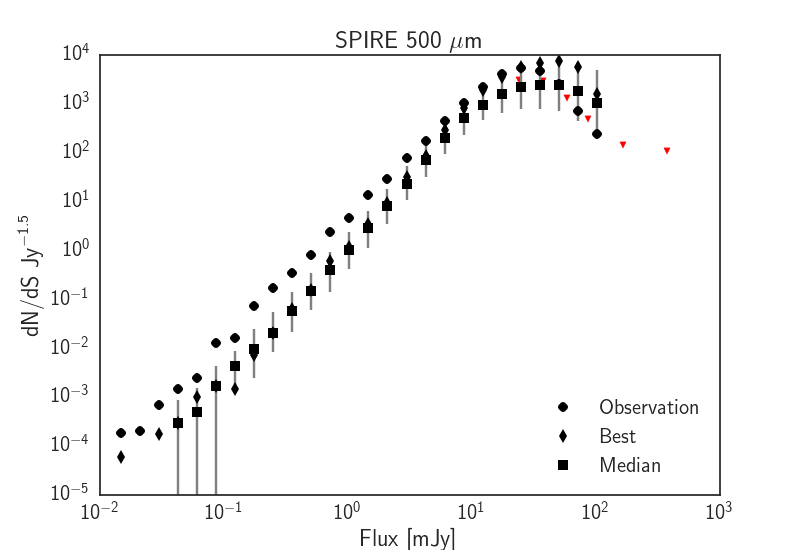
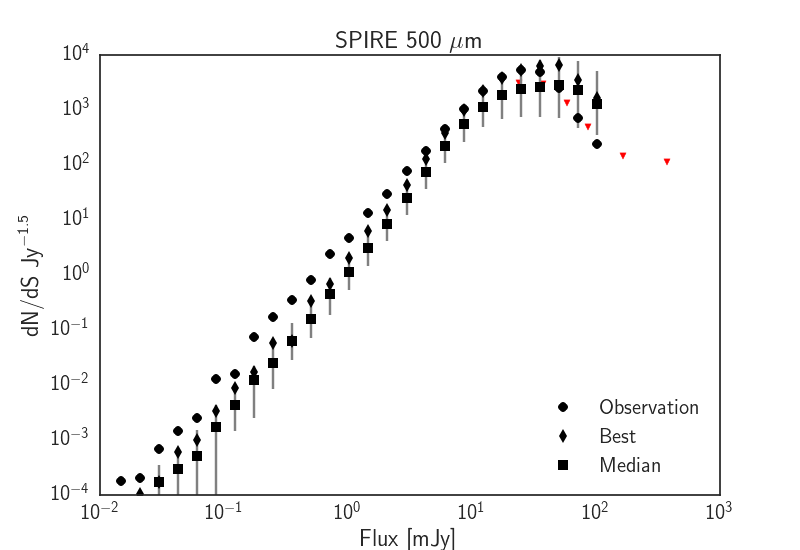
added completeness support

diff --git a/trunk/src/simulator.cpp b/trunk/src/simulator.cpp
@@ -37,6 +37,12 @@ void simulator::configure(const Configuration &config){
   
   simflag=config.simflag;
 
+  for(int i=0;i<3;i++){
+    completeness[i].reset(new CompletenessCurve(config.completeness_n[i],
+						config.completeness_m[i],
+						config.completeness_b[i]));
+  }
+
   if( not simflag ){
     if(config.obsfile != ""){
       obsFile=config.obsfile;
@@ -187,21 +193,55 @@ void simulator::initial_simulation(){
 
 	for (int i=0;i<3;i++){
 	  flux_raw[i] = seds->get_filter_flux(tL,tZ,sedtype,i);
+	  detected = detected and completeness[i]->accept(flux_raw[i]);
 	}
 
-	for (int i=0;i<3;i++){
-	  flux_sim[i] = rng.gaussian(flux_raw[i],band_errs[i],0.0,1e5);
-	  if(hasSkewErr[i])
-	    flux_sim[i] += rng.poisson(skew_errs[i]);
-	  if (flux_sim[i] < flux_limits[i]) //reject sources below flux limit
-	    detected = false;
-	}
-	
-	//check for detectability, if "Yes" add to list
+	//if accepted by completeness curve, add error
 	if(detected){
-	  temp_src = new sprop(tZ,flux_sim,tL,axes,sedtype);
-	  sources.push_back(*temp_src);
-	  delete temp_src;
+	  for(int i=0;i<3;i++){
+	    // adding in option to force non-detections
+	    // to 3sigma limit on a band
+	    //
+	    // procedure: -  if band error is positive: execute normally
+	    //            -  if band error is negative & flux is above
+	    //               limit, do normally, but pass rng.gaussian()
+	    //               the absolute value of band_errs[i]
+	    //            -  if band error is negative & flux is below
+	    //               limit, then do not call rng.gaussian() or 
+	    //               rng.poisson(). Instead, set flux_sim[i]
+	    //               equal to flux_limits[i] and set detected
+	    //               to true
+	    
+	    if(band_errs[i] >= 0.0){ // normal/expected 
+	      flux_sim[i] = rng.gaussian(flux_raw[i],band_errs[i],0.0,1e5);
+	      if(hasSkewErr[i])
+		flux_sim[i] += rng.poisson(skew_errs[i]);
+	      if(flux_sim[i] < flux_limits[i])
+		detected = false;
+	    }
+	    
+	    // negative band error but raw_flux is detectable 
+	    if ((band_errs[i] < 0.0) and (flux_raw[i] > flux_limits[i])){
+	      flux_sim[i] = rng.gaussian(flux_raw[i],-1*(band_errs[i]),0.0,1e5);
+	      if(hasSkewErr[i])
+		flux_sim[i] += rng.poisson(skew_errs[i]);
+	      if(flux_sim[i] < flux_limits[i])
+		// force to detection threshold 
+		flux_sim[i] = flux_limits[i]; 
+	      
+	    }
+	    // negative band error, but raw flux is not detectable 
+	    if ((band_errs[i] < 0.0) and (flux_raw[i] < flux_limits[i])){ // flagged condition 
+	      flux_sim[i] = flux_limits[i]; // force simulated flux detection threshold
+	    }
+	  }
+	  
+	  //check for detectability, if "Yes" add to list
+	  if(detected){
+	    temp_src = new sprop(tZ,flux_sim,tL,axes,sedtype);
+	    sources.push_back(*temp_src);
+	    delete temp_src;
+	  }
 	}
       }
     }
@@ -346,59 +386,61 @@ products simulator::simulate(){
 	}
 	
 	for (int i=0;i<3;i++){
-	  // adding in option to force non-detections
-	  // to 3sigma limit on a band
-	  //
-	  // procedure: -  if band error is positive: execute normally
-	  //            -  if band error is negative & flux is above
-	  //               limit, do normally, but pass rng.gaussian()
-	  //               the absolute value of band_errs[i]
-	  //            -  if band error is negative & flux is below
-	  //               limit, then do not call rng.gaussian() or 
-	  //               rng.poisson(). Instead, set flux_sim[i]
-	  //               equal to flux_limits[i] and set detected
-	  //               to true
-
-	  if(band_errs[i] >= 0.0){ // normal/expected 
-	    flux_sim[i] = rng.gaussian(flux_raw[i],band_errs[i],0.0,1e5);
-	    if(hasSkewErr[i])
-	      flux_sim[i] += rng.poisson(skew_errs[i]);
-	    if(flux_sim[i] < flux_limits[i])
-	      detected = false;
-	  }
-	  
-	  // negative band error but raw_flux is detectable 
-	  if ((band_errs[i] < 0.0) and (flux_raw[i] > flux_limits[i])){
-	    flux_sim[i] = rng.gaussian(flux_raw[i],-1*(band_errs[i]),0.0,1e5);
-	    if(hasSkewErr[i])
-	      flux_sim[i] += rng.poisson(skew_errs[i]);
-	    if(flux_sim[i] < flux_limits[i])
-	      // force to detection threshold 
-	      flux_sim[i] = flux_limits[i]; 
-	   
-	  }
-	  // negative band error, but raw flux is not detectable 
-	  if ((band_errs[i] < 0.0) and (flux_raw[i] < flux_limits[i])){ // flagged condition 
-	    flux_sim[i] = flux_limits[i]; // force simulated flux detection threshold
-	  }
-	    
-
-
-	  // stuff that was already here 
-	  //flux_sim[i] = rng.gaussian(flux_raw[i],band_errs[i],0.0,1e5);
-	  //if(hasSkewErr[i])
-	  //  flux_sim[i] += rng.poisson(skew_errs[i]);
-	  //if (flux_sim[i] < flux_limits[i]) //reject sources below flux limit
-	  //  detected = false;
+	  flux_raw[i] = seds->get_filter_flux(tL,tZ,sedtype,i);
+	  detected = detected and completeness[i]->accept(flux_raw[i]);
 	}
-	
-	//check for detectability, if "Yes" add to list
+
+	//if accepted by completeness curve, add error
 	if(detected){
-	  detTotal++;
-	  temp_src = new sprop(tZ,flux_sim,tL,axes,sedtype);
-	  sources.push_back(*temp_src);
-	  output.dndz[is]++; 
-	  delete temp_src;
+	  
+	  for (int i=0;i<3;i++){
+	    // adding in option to force non-detections
+	    // to 3sigma limit on a band
+	    //
+	    // procedure: -  if band error is positive: execute normally
+	    //            -  if band error is negative & flux is above
+	    //               limit, do normally, but pass rng.gaussian()
+	    //               the absolute value of band_errs[i]
+	    //            -  if band error is negative & flux is below
+	    //               limit, then do not call rng.gaussian() or 
+	    //               rng.poisson(). Instead, set flux_sim[i]
+	    //               equal to flux_limits[i] and set detected
+	    //               to true
+	    
+	    if(band_errs[i] >= 0.0){ // normal/expected 
+	      flux_sim[i] = rng.gaussian(flux_raw[i],band_errs[i],0.0,1e5);
+	      if(hasSkewErr[i])
+		flux_sim[i] += rng.poisson(skew_errs[i]);
+	      if(flux_sim[i] < flux_limits[i])
+		detected = false;
+	    }
+	    
+	    // negative band error but raw_flux is detectable 
+	    if ((band_errs[i] < 0.0) and (flux_raw[i] > flux_limits[i])){
+	      flux_sim[i] = rng.gaussian(flux_raw[i],-1*(band_errs[i]),0.0,1e5);
+	      if(hasSkewErr[i])
+		flux_sim[i] += rng.poisson(skew_errs[i]);
+	      if(flux_sim[i] < flux_limits[i])
+		// force to detection threshold 
+		flux_sim[i] = flux_limits[i]; 
+	      
+	    }
+	    // negative band error, but raw flux is not detectable 
+	    if ((band_errs[i] < 0.0) and (flux_raw[i] < flux_limits[i])){ // flagged condition 
+	      flux_sim[i] = flux_limits[i]; // force simulated flux detection threshold
+	    }
+	    
+	    
+	  }
+	
+	  //check for detectability, if "Yes" add to list
+	  if(detected){
+	    detTotal++;
+	    temp_src = new sprop(tZ,flux_sim,tL,axes,sedtype);
+	    sources.push_back(*temp_src);
+	    output.dndz[is]++; 
+	    delete temp_src;
+	  }
 	}
       }
     }

diff --git a/trunk/python/ModelFile.py b/trunk/python/ModelFile.py
@@ -10,15 +10,19 @@ from astropy.io import fits
         
 class filterOptions:
 
-    def __init__(self,fid,limit,err,serr,unit):
+    def __init__(self,fid,limit,err,serr,unit,compN=-1.0,compB=-1.0,compM=0.0):
         self.fid=fid
         self.limit=limit
         self.err=err
         self.serr=serr
         self.unit=unit
 
+        self.compN=compN
+        self.compB=compB
+        self.compM=compM
+
     def __str__(self):
-        return self.name()+", Limit="+str(self.limit)+" "+self.unit+", Error="+str(self.err)+", Skew Error="+str(self.serr)+", "+self.unit
+        return self.name()+", Limit="+str(self.limit)+" "+self.unit+", Error="+str(self.err)+", Skew Error="+str(self.serr)+", "+self.unit+", Completeness Params: ("+str(self.compN)+","+str(self.compB)+","+str(self.compM)+")"
 
     def loadKeys(self,hdr,number):
         name=hdr['Filter'+str(number)]
@@ -27,6 +31,9 @@ class filterOptions:
         self.limit=hdr['limit'+str(number)]
         self.err=hdr['error'+str(number)]
         self.serr=hdr['serror'+str(number)]
+        self.compN=hdr['comp'+str(number)+'n']
+        self.compB=hdr['comp'+str(number)+'b']
+        self.compM=hdr['comp'+str(number)+'m']
 
     def setID(self,name):
         res=getFilterID(name)
@@ -41,6 +48,9 @@ class filterOptions:
         hdr.set('limit'+str(number),self.limit,'flux/magnitude limit')
         hdr.set('error'+str(number),self.err,'flux/magnitude error')
         hdr.set('serror'+str(number),self.serr,'flux/magnitude skew error')
+        hdr.set('comp'+str(number)+'n',self.compN,'Power of Completeness Curve')
+        hdr.set('comp'+str(number)+'b',self.compB,'Slope of Completeness Curve')
+        hdr.set('comp'+str(number)+'m',self.compM,'Median of Completeness Curve')
 
 class parameter:
 
@@ -199,10 +209,6 @@ class ModelFile:
         self.filename=filename
         hdus=fits.open(filename)
         phdr=hdus[0].header
-
-#structure needed to be run once if new parameters are to be added to model.fits
-#        phdr['comp']=0
-#        phdr['cold']=0
 
         #load LF parameters
         for n,p in self.params.iteritems() : p.loadKeys(phdr,n)

diff --git a/trunk/src/functions.cpp b/trunk/src/functions.cpp
@@ -443,6 +443,28 @@ void Configuration::load(){
     vary_zbc = false;
   
   burn_num = runs/burn_ratio;
+
+
+  //completeness information
+  char cnum[2];
+  string num;
+  for (int i=0;i<3;i++){
+    sprintf(cnum,"%i",i+1);
+    num = cnum;
+    try{tab.readKey("COMP"+num+"N",completeness_n[i]);}
+    catch(CCfits::HDU::NoSuchKeyword){
+      completeness_n[i]=-1.0;
+    }
+    try{tab.readKey("COMP"+num+"B",completeness_b[i]);}
+    catch(CCfits::HDU::NoSuchKeyword){
+      completeness_b[i]=-1.0;
+    }
+    try{tab.readKey("COMP"+num+"M",completeness_m[i]);}
+    catch(CCfits::HDU::NoSuchKeyword){
+      completeness_m[i]=0.0;
+    }
+  }
+
 }
 
 RandomNumberGenerator::RandomNumberGenerator(){
@@ -534,3 +556,49 @@ void RandomNumberGenerator::gaussian_mv(const vector<double> &mean, const vector
   return;
 }
 
+CompletenessCurve::CompletenessCurve(double n, double m, double b){
+  //invalid to have -n
+  if(n > 0.0){
+    _n=n;
+    complete=false;
+  }
+  else{
+    _n=0.0;
+    complete=true;
+  }
+  
+  //m has infinite domain
+  _M=m;
+
+  //doesn't make sense to have -b
+  if(b > 0.0)
+    _B=b;
+  else
+    _B=1e-10;
+
+  
+  if(not complete)
+    _ulim=_M-_B*log(pow(0.999,-1.0/_n)-1);
+  else
+    _ulim=0;
+
+  cout << "Completeness: " << _B << " " << _M << " " << _n << ", Max= " << _ulim << endl;
+}
+
+bool CompletenessCurve::accept(double flux){
+  
+  if(complete){
+    return true;
+  }
+
+  if(flux > _ulim)
+    return true;
+
+  double tFlux=round(flux);
+
+  if(valueStore.count(tFlux) == 0){
+    cout << "Here: " << tFlux << " " << _M << " " << _B << " " << _n << endl;
+    valueStore[tFlux]=pow(1.0+exp((_M-tFlux)/_B),-_n);
+  }
+  return valueStore[tFlux] >= crng.flat(0.0,1.0);
+}

diff --git a/trunk/src/functions.h b/trunk/src/functions.h
@@ -143,6 +143,10 @@ public:
 
   LF::distribution lfDist;
 
+  double completeness_n[3];
+  double completeness_b[3];
+  double completeness_m[3];
+
 private:
   void load();
 
@@ -159,6 +163,21 @@ public:
 private:
   const gsl_rng_type *T;
   gsl_rng *r;
+};
+
+//computes logistic function for completeness and returns random acceptance based on logistic probability
+class CompletenessCurve{
+public:
+  CompletenessCurve(double n, double m, double b);
+  bool accept(double flux);
+private:
+  double _B;
+  double _M;
+  double _n;
+  double _ulim;
+  double complete;
+  RandomNumberGenerator crng;
+  map<double,double> valueStore;
 };
 
 #endif

diff --git a/trunk/src/simulator.h b/trunk/src/simulator.h
@@ -25,6 +25,7 @@ private:
   std::unique_ptr<obs_lib> observations;
   std::unique_ptr<hist_lib> diagnostic;
   std::unique_ptr<NumberCounts> counts[3];
+  std::unique_ptr<CompletenessCurve> completeness[3];
   string filters[3];
   double band_errs[3];
   double skew_errs[3];

diff --git a/Examples/SPIRE/run_analysis.py b/Examples/SPIRE/run_analysis.py
@@ -23,6 +23,9 @@ mod.survey['area']=11.1
 mod.filters[0].setID("SPIRE_250")
 mod.filters[0].limit=12.7
 mod.filters[0].err=2.5
+mod.filters[0].compN=2.0
+mod.filters[0].compB=7.5
+mod.filters[0].compM=9.1
 
 mod.filters[1].setID("SPIRE_350")
 mod.filters[1].limit=0.01
